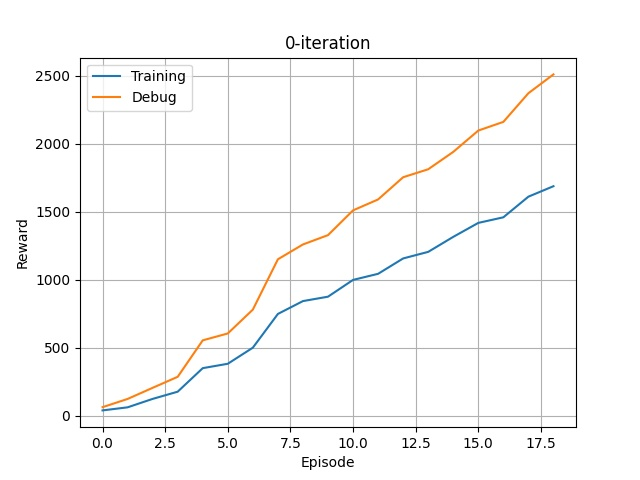
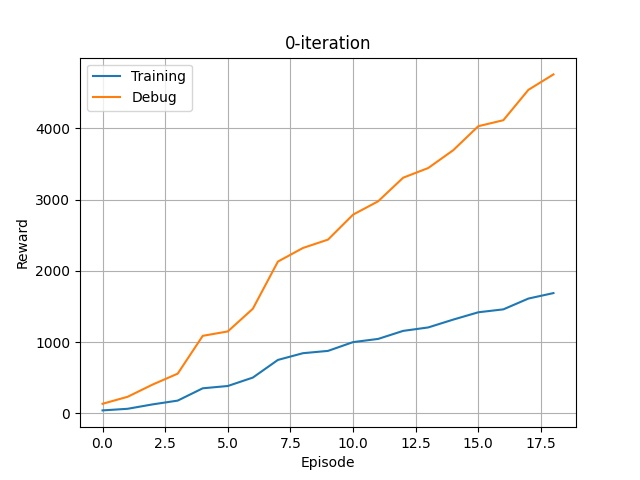
dlcf@home

diff --git a/model9.py b/model9.py
@@ -6,9 +6,9 @@ class Reward:
         self.first_racingpoint_index = 0
         self.verbose = verbose
         self.track_length = 17.71
-        self.standard_speed = 1.7
-        self.optimal_speed = 2.5
-        self.maximum_speed = 3.0
+        self.standard_speed = 1.5
+        self.optimal_speed = 2.0
+        self.maximum_speed = 2.5
         self.multiply_factor = 2
         self.steps_per_second = 15
         self.laps = 3
@@ -157,23 +157,23 @@ class Reward:
         # Each row: [x,y,speed,timeFromPreviousPoint]
         ############### OPTIMAL X,Y,SPEED,TIME ################
 
-        racing_track = [[3.2095088958740234, 0.6831344813108444, 2.5, 0.029953347994185857],
-                        [3.2843921780586243, 0.6832491531968117, 2.5, 0.029953347994185857],
-                        [3.359275460243225, 0.6833638250827789, 2.5, 0.029951907166820835],
-                        [3.434155225753784, 0.6833828091621399, 2.5, 0.029951907166820835],
-                        [3.5090349912643433, 0.6834017932415009, 2.5, 0.029952003915544624],
+        racing_track = [[3.2095088958740234, 0.6831344813108444, 1.5, 0.029953347994185857],
+                        [3.2843921780586243, 0.6832491531968117, 1.5, 0.029953347994185857],
+                        [3.359275460243225, 0.6833638250827789, 2.0, 0.029951907166820835],
+                        [3.434155225753784, 0.6833828091621399, 2.0, 0.029951907166820835],
+                        [3.5090349912643433, 0.6834017932415009, 2.0, 0.029952003915544624],
                         [3.5839149951934814, 0.6834314167499542, 2.5, 0.029952003915544624],
-                        [3.6587949991226196, 0.6834610402584076, 2.5, 0.02995200366333662],
-                        [3.733675003051758, 0.6834890246391296, 2.5, 0.02995200366333662],
-                        [3.808555006980896, 0.6835170090198517, 2.5, 0.029952003383776328],
-                        [3.883435010910034, 0.6835430562496185, 2.5, 0.029952003383776328],
-                        [3.9583150148391724, 0.6835691034793854, 2.5, 0.029952122588914325],
+                        [3.6587949991226196, 0.6834610402584076, 3.5, 0.02995200366333662],
+                        [3.733675003051758, 0.6834890246391296, 3.5, 0.02995200366333662],
+                        [3.808555006980896, 0.6835170090198517, 3.5, 0.029952003383776328],
+                        [3.883435010910034, 0.6835430562496185, 3.5, 0.029952003383776328],
+                        [3.9583150148391724, 0.6835691034793854, 3.5, 0.029952122588914325],
                         [4.033195316791534, 0.6835951209068298, 2.5, 0.029952122588914325],
                         [4.1080756187438965, 0.6836211383342743, 2.5, 0.029951860394318196],
                         [4.182955265045166, 0.6836476251482964, 2.5, 0.029951860394318196],
-                        [4.2578349113464355, 0.6836741119623184, 2.5, 0.029952003508169327],
-                        [4.332714915275574, 0.6837010383605957, 2.5, 0.029952003508169327],
-                        [4.407594919204712, 0.683727964758873, 2.5, 0.02995200346553962],
+                        [4.2578349113464355, 0.6836741119623184, 3.5, 0.029952003508169327],
+                        [4.332714915275574, 0.6837010383605957, 3.5, 0.029952003508169327],
+                        [4.407594919204712, 0.683727964758873, 3.5, 0.02995200346553962],
                         [4.48247492313385, 0.6837545931339264, 2.5, 0.02995200346553962],
                         [4.557354927062988, 0.6837812215089798, 2.5, 0.02995190822742692],
                         [4.632234692573547, 0.6838087439537048, 2.5, 0.02995190822742692],
@@ -182,10 +182,10 @@ class Reward:
                         [4.856873989105225, 0.6838938742876053, 2.5, 0.029951813101208074],
                         [4.931753516197205, 0.6839229911565781, 2.5, 0.029951813101208074],
                         [5.006633043289185, 0.6839521080255508, 2.5, 0.029952098798153],
-                        [5.081513285636902, 0.6839784905314445, 2.5, 0.029952098798153],
-                        [5.156393527984619, 0.6840048730373383, 2.5, 0.02995219367223012],
-                        [5.2312740087509155, 0.6840274855494499, 2.5, 0.02995219367223012],
-                        [5.306154489517212, 0.6840500980615616, 2.5, 0.029951480066598625],
+                        [5.081513285636902, 0.6839784905314445, 3.5, 0.029952098798153],
+                        [5.156393527984619, 0.6840048730373383, 3.5, 0.02995219367223012],
+                        [5.2312740087509155, 0.6840274855494499, 3.5, 0.02995219367223012],
+                        [5.306154489517212, 0.6840500980615616, 3.5, 0.029951480066598625],
                         [5.381033182144165, 0.6840837001800537, 2.5, 0.029951480066598625],
                         [5.455911874771118, 0.6841173022985458, 2.5, 0.029946740811106886],
                         [5.530778646469116, 0.6842269748449326, 2.5, 0.029946740811106886],
@@ -194,11 +194,11 @@ class Reward:
                         [5.75542140007019, 0.6842880994081497, 2.5, 0.02997697410211094],
                         [5.830363035202026, 0.6839417964220047, 2.5, 0.02997697410211094],
                         [5.905304670333862, 0.6835954934358597, 2.5, 0.029997349606544304],
-                        [5.980295419692993, 0.6829680725932121, 2.5, 0.029997349606544304],
-                        [6.055286169052124, 0.6823406517505646, 2.5, 0.02994357753470477],
-                        [6.130120635032654, 0.6842548549175262, 2.5, 0.02994357753470477],
-                        [6.204955101013184, 0.6861690580844879, 2.5, 0.029923387998474743],
-                        [6.279508352279663, 0.6923431903123856, 2.5, 0.029923387998474743],
+                        [5.980295419692993, 0.6829680725932121, 2.0, 0.029997349606544304],
+                        [6.055286169052124, 0.6823406517505646, 2.0, 0.02994357753470477],
+                        [6.130120635032654, 0.6842548549175262, 2.0, 0.02994357753470477],
+                        [6.204955101013184, 0.6861690580844879, 2.0, 0.029923387998474743],
+                        [6.279508352279663, 0.6923431903123856, 2.0, 0.029923387998474743],
                         [6.354061603546143, 0.6985173225402832, 1.5, 0.04994435179217613],
                         [6.428287982940674, 0.7086628004908562, 1.5, 0.04994435179217613],
                         [6.502514362335205, 0.7188082784414291, 1.5, 0.049883404827169714],
@@ -312,11 +312,11 @@ class Reward:
                         [1.842801034450531, 4.479875564575195, 2.5, 0.03006171043466848],
                         [1.7676872611045837, 4.477408528327942, 2.5, 0.03006171043466848],
                         [1.6925734877586365, 4.4749414920806885, 2.5, 0.030564063952759856],
-                        [1.6162279844284058, 4.471798777580261, 2.5, 0.030564063952759856],
-                        [1.539882481098175, 4.468656063079834, 2.5, 0.03079885518448009],
-                        [1.4630757272243506, 4.463244795799255, 2.5, 0.03079885518448009],
-                        [1.3862689733505262, 4.457833528518677, 2.5, 0.029647294152925985],
-                        [1.3148179948329932, 4.43812894821167, 2.5, 0.029647294152925985],
+                        [1.6162279844284058, 4.471798777580261, 2.0, 0.030564063952759856],
+                        [1.539882481098175, 4.468656063079834, 2.0, 0.03079885518448009],
+                        [1.4630757272243506, 4.463244795799255, 2.0, 0.03079885518448009],
+                        [1.3862689733505262, 4.457833528518677, 2.0, 0.029647294152925985],
+                        [1.3148179948329932, 4.43812894821167, 2.0, 0.029647294152925985],
                         [1.2433670163154602, 4.418424367904663, 1.5, 0.04955595365455496],
                         [1.1784637123346329, 4.382187724113464, 1.5, 0.04955595365455496],
                         [1.1135604083538055, 4.345951080322266, 1.5, 0.050338015951259724],
@@ -331,11 +331,11 @@ class Reward:
                         [0.7299025878310205, 3.7963417172431955, 1.5, 0.04955248165027675],
                         [0.7141403257846834, 3.723703503608705, 1.5, 0.05030782444315046],
                         [0.7106941863894464, 3.648320496082307, 1.5, 0.050307824443150746],
-                        [0.7072480469942093, 3.572937488555908, 2.5, 0.02993862703533783],
-                        [0.7111022844910622, 3.498190224170685, 2.5, 0.02993862703533783],
-                        [0.714956521987915, 3.4234429597854614, 2.5, 0.029863963829807855],
-                        [0.7257592752575874, 3.349568724632263, 2.5, 0.029863963829807855],
-                        [0.7365620285272598, 3.275694489479065, 2.5, 0.0300512701232523],
+                        [0.7072480469942093, 3.572937488555908, 2.0, 0.02993862703533783],
+                        [0.7111022844910622, 3.498190224170685, 2.0, 0.02993862703533783],
+                        [0.714956521987915, 3.4234429597854614, 2.0, 0.029863963829807855],
+                        [0.7257592752575874, 3.349568724632263, 2.0, 0.029863963829807855],
+                        [0.7365620285272598, 3.275694489479065, 2.0, 0.0300512701232523],
                         [0.7543131262063982, 3.20269352197647, 2.5, 0.0300512701232523],
                         [0.7720642238855366, 3.129692554473875, 2.5, 0.03019251657042919],
                         [0.7924884408712389, 3.057027041912078, 2.5, 0.03019251657042919],
@@ -346,25 +346,25 @@ class Reward:
                         [0.8816098272800446, 2.692067503929138, 2.5, 0.029951456109804476],
                         [0.896785244345665, 2.6187427639961243, 2.5, 0.029951456109804476],
                         [0.9119606614112854, 2.5454180240631104, 2.5, 0.029952055397009757],
-                        [0.9271555542945862, 2.472095787525177, 2.5, 0.029952055397009757],
-                        [0.942350447177887, 2.3987735509872437, 2.5, 0.029951729240884784],
-                        [0.9575410336256027, 2.3254512548446655, 2.5, 0.029951729240884784],
-                        [0.9727316200733185, 2.2521289587020874, 2.5, 0.029951857892744887],
-                        [0.9879243671894073, 2.178806781768799, 2.5, 0.029951857892744887],
-                        [1.0031171143054962, 2.1054846048355103, 2.5, 0.02995282108592388],
-                        [1.0183128118515015, 2.0321605801582336, 2.5, 0.02995282108592388],
-                        [1.0335085093975067, 1.958836555480957, 2.5, 0.02994554031902546],
-                        [1.0486784875392914, 1.885525792837143, 2.5, 0.02994554031902546],
-                        [1.063848465681076, 1.8122150301933289, 2.5, 0.029958844569549253],
-                        [1.0790641456842422, 1.738879770040512, 2.5, 0.029958844569549253],
-                        [1.0942798256874084, 1.6655445098876953, 2.5, 0.03002061917483976],
+                        [0.9271555542945862, 2.472095787525177, 3.5, 0.029952055397009757],
+                        [0.942350447177887, 2.3987735509872437, 3.5, 0.029951729240884784],
+                        [0.9575410336256027, 2.3254512548446655, 3.5, 0.029951729240884784],
+                        [0.9727316200733185, 2.2521289587020874, 3.5, 0.029951857892744887],
+                        [0.9879243671894073, 2.178806781768799, 3.5, 0.029951857892744887],
+                        [1.0031171143054962, 2.1054846048355103, 3.5, 0.02995282108592388],
+                        [1.0183128118515015, 2.0321605801582336, 3.5, 0.02995282108592388],
+                        [1.0335085093975067, 1.958836555480957, 3.5, 0.02994554031902546],
+                        [1.0486784875392914, 1.885525792837143, 3.5, 0.02994554031902546],
+                        [1.063848465681076, 1.8122150301933289, 3.5, 0.029958844569549253],
+                        [1.0790641456842422, 1.738879770040512, 3.5, 0.029958844569549253],
+                        [1.0942798256874084, 1.6655445098876953, 3.5, 0.03002061917483976],
                         [1.1097063273191452, 1.5920954942703247, 2.5, 0.03002061917483976],
                         [1.125132828950882, 1.518646478652954, 2.5, 0.030065879189125223],
                         [1.1410594135522842, 1.4451884925365448, 2.5, 0.030065879189125223],
                         [1.1569859981536865, 1.3717305064201355, 2.5, 0.029916302719540776],
-                        [1.1778385043144226, 1.2999055087566376, 2.5, 0.029916302719540776],
-                        [1.1986910104751587, 1.2280805110931396, 2.5, 0.029955703768185116],
-                        [1.2259035855531693, 1.1583103388547897, 2.5, 0.029955703768185116],
+                        [1.1778385043144226, 1.2999055087566376, 2.0, 0.029916302719540776],
+                        [1.1986910104751587, 1.2280805110931396, 2.0, 0.029955703768185116],
+                        [1.2259035855531693, 1.1583103388547897, 2.0, 0.029955703768185116],
                         [1.2531161606311798, 1.0885401666164398, 1.5, 0.04957615609954625],
                         [1.2962715774774551, 1.0279790461063385, 1.5, 0.04957615609954625],
                         [1.3394269943237305, 0.9674179255962372, 1.5, 0.05002893617421028],
@@ -381,18 +381,18 @@ class Reward:
                         [2.0862044990062714, 0.6798367500305176, 1.5, 0.0499371511041794],
                         [2.1608630418777466, 0.6737564653158188, 1.5, 0.04989374271114655],
                         [2.2356897592544556, 0.6723142862319946, 1.5, 0.04989374271114655],
-                        [2.3105164766311646, 0.6708721071481705, 2.5, 0.03000833167409845],
-                        [2.3854910135269165, 0.6735071837902069, 2.5, 0.03000833167409845],
-                        [2.4604655504226685, 0.6761422604322433, 2.5, 0.030000809925814727],
-                        [2.5354303121566772, 0.6785062029957771, 2.5, 0.030000809925814727],
-                        [2.610395073890686, 0.6808701455593109, 2.5, 0.02997237663388156],
-                        [2.685316801071167, 0.6820452213287354, 2.5, 0.02997237663388156],
-                        [2.760238528251648, 0.6832202970981598, 2.5, 0.029951286829978302],
-                        [2.835116744041443, 0.6832064241170883, 2.5, 0.029951286829978302],
-                        [2.909994959831238, 0.6831925511360168, 2.5, 0.029947902720257224],
-                        [2.9848642349243164, 0.6829239800572395, 2.5, 0.029947902720257224],
-                        [3.059733510017395, 0.6826554089784622, 2.5, 0.029955230407260485],
-                        [3.1346212029457092, 0.6828949451446533, 2.5, 0.029955230407260485]]
+                        [2.3105164766311646, 0.6708721071481705, 2.0, 0.03000833167409845],
+                        [2.3854910135269165, 0.6735071837902069, 2.0, 0.03000833167409845],
+                        [2.4604655504226685, 0.6761422604322433, 2.0, 0.030000809925814727],
+                        [2.5354303121566772, 0.6785062029957771, 2.0, 0.030000809925814727],
+                        [2.610395073890686, 0.6808701455593109, 2.0, 0.02997237663388156],
+                        [2.685316801071167, 0.6820452213287354, 2.0, 0.02997237663388156],
+                        [2.760238528251648, 0.6832202970981598, 2.0, 0.029951286829978302],
+                        [2.835116744041443, 0.6832064241170883, 2.0, 0.029951286829978302],
+                        [2.909994959831238, 0.6831925511360168, 2.0, 0.029947902720257224],
+                        [2.9848642349243164, 0.6829239800572395, 2.0, 0.029947902720257224],
+                        [3.059733510017395, 0.6826554089784622, 2.0, 0.029955230407260485],
+                        [3.1346212029457092, 0.6828949451446533, 2.0, 0.029955230407260485]]
 
         ################## INPUT PARAMETERS ###################
 
@@ -438,12 +438,12 @@ class Reward:
 
         ## Reward if speed is close to optimal speed ##
         SPEED_DIFF_NO_REWARD = 1.5
-        SPEED_MULTIPLE = 2
+        SPEED_MULTIPLE = 3
         speed_diff = abs(optimals[2] - speed)
         if speed_diff <= SPEED_DIFF_NO_REWARD:
             # we use quadratic punishment (not linear) bc we're not as confident with the optimal speed
             # so, we do not punish small deviations from optimal speed
-            speed_reward = (1 - (speed_diff / (SPEED_DIFF_NO_REWARD)) ** 2) ** 2
+            speed_reward = speed * (1 - (speed_diff / (SPEED_DIFF_NO_REWARD)) ** 2) ** 2
         else:
             speed_reward = 0
         reward += speed_reward * SPEED_MULTIPLE
@@ -467,13 +467,15 @@ class Reward:
         # Zero reward if obviously wrong direction (e.g. spin)
         direction_diff = racing_direction_diff(
             optimals[0:2], optimals_second[0:2], [x, y], heading)
-        if direction_diff > 30:
+        if direction_diff > 20:
             reward = 1e-3
 
-        # Zero reward of obviously too slow
-        # speed_diff_zero = self.speed_ratio * optimals[2] - speed
-        # if speed_diff_zero > 0.5:
-        #     reward = 1e-3
+        #Zero reward of obviously too slow
+        speed_diff_zero = optimals[2] - speed
+        if speed_diff_zero > 2.0:
+            reward = 1e-3
+        else:
+            reward += speed
 
         ## Incentive for finishing the lap in less steps ##
         REWARD_FOR_FASTEST_TIME = 1500  # should be adapted to track length and other rewards

diff --git a/reward_function_debugger.py b/reward_function_debugger.py
@@ -651,23 +651,23 @@ def generate_racing_track():
 if __name__ == '__main__':
     # generate_racing_track()
 
-    # training_log = os.path.dirname(__file__) + r'\aws\training-simtrace\dlcf-htc-2021-model6-clone\all'
-    # plot_reward(training_log)
-    # training_log = os.path.dirname(__file__) + r'\aws\training-simtrace\dlcf-htc-2021-model6-clone-clone-clone\all'
-    # plot_reward(training_log)
-    # training_log = os.path.dirname(__file__) + r'\aws\training-simtrace\dlcf-htc-2021-model6\all'
-    # plot_reward(training_log)
-    # training_log = os.path.dirname(__file__) + r'\aws\training-simtrace\dlcf-htc-2021-model1\all'
-    # plot_reward(training_log)
-    # training_log = os.path.dirname(__file__) + r'\aws\training-simtrace\model1\all'
-    # plot_reward(training_log)
-    # training_log = os.path.dirname(__file__) + r'\aws\training-simtrace\model8-clone\all'
-    # plot_reward(training_log)
-    # training_log = os.path.dirname(__file__) + r'\aws\training-simtrace\model8-clone-clone-clone\all'
-    # plot_reward(training_log)
-    # training_log = os.path.dirname(__file__) + r'\aws\training-simtrace\model8-clone-clone-clone-clone\all'
-    # plot_reward(training_log)
-    # training_log = os.path.dirname(__file__) + r'\aws\training-simtrace\model9\all'
-    # plot_reward(training_log)
+    training_log = os.path.dirname(__file__) + r'\aws\training-simtrace\dlcf-htc-2021-model6-clone\all'
+    plot_reward(training_log)
+    training_log = os.path.dirname(__file__) + r'\aws\training-simtrace\dlcf-htc-2021-model6-clone-clone-clone\all'
+    plot_reward(training_log)
+    training_log = os.path.dirname(__file__) + r'\aws\training-simtrace\dlcf-htc-2021-model6\all'
+    plot_reward(training_log)
+    training_log = os.path.dirname(__file__) + r'\aws\training-simtrace\dlcf-htc-2021-model1\all'
+    plot_reward(training_log)
+    training_log = os.path.dirname(__file__) + r'\aws\training-simtrace\model1\all'
+    plot_reward(training_log)
+    training_log = os.path.dirname(__file__) + r'\aws\training-simtrace\model8-clone\all'
+    plot_reward(training_log)
+    training_log = os.path.dirname(__file__) + r'\aws\training-simtrace\model8-clone-clone-clone\all'
+    plot_reward(training_log)
+    training_log = os.path.dirname(__file__) + r'\aws\training-simtrace\model8-clone-clone-clone-clone\all'
+    plot_reward(training_log)
+    training_log = os.path.dirname(__file__) + r'\aws\training-simtrace\model9\all'
+    plot_reward(training_log)
     training_log = os.path.dirname(__file__) + r'\aws\training-simtrace\ben-model3-clone\all'
     plot_reward(training_log)

diff --git a/model8.py b/model8.py
@@ -47,6 +47,7 @@ def reward_function(params):
         direction_reward = speed_ratio * speed * max(1e-3, math.cos(math.radians(direction_diff)))
     else:
         direction_reward = 1e-3
+    reward += direction_reward
 
     if abs(steering_angle) > 15:
         direction_reward = 1e-3
@@ -71,7 +72,7 @@ def reward_function(params):
         steps_reward = speed_ratio * speed * math.cos((optimal_steps_lap - standard_steps_lap)/optimal_steps_lap)
     except:
         steps_reward = 1e-3
-    reward += steps_reward
+    # reward += steps_reward
 
     # off track check
     if not all_wheels_on_track:
